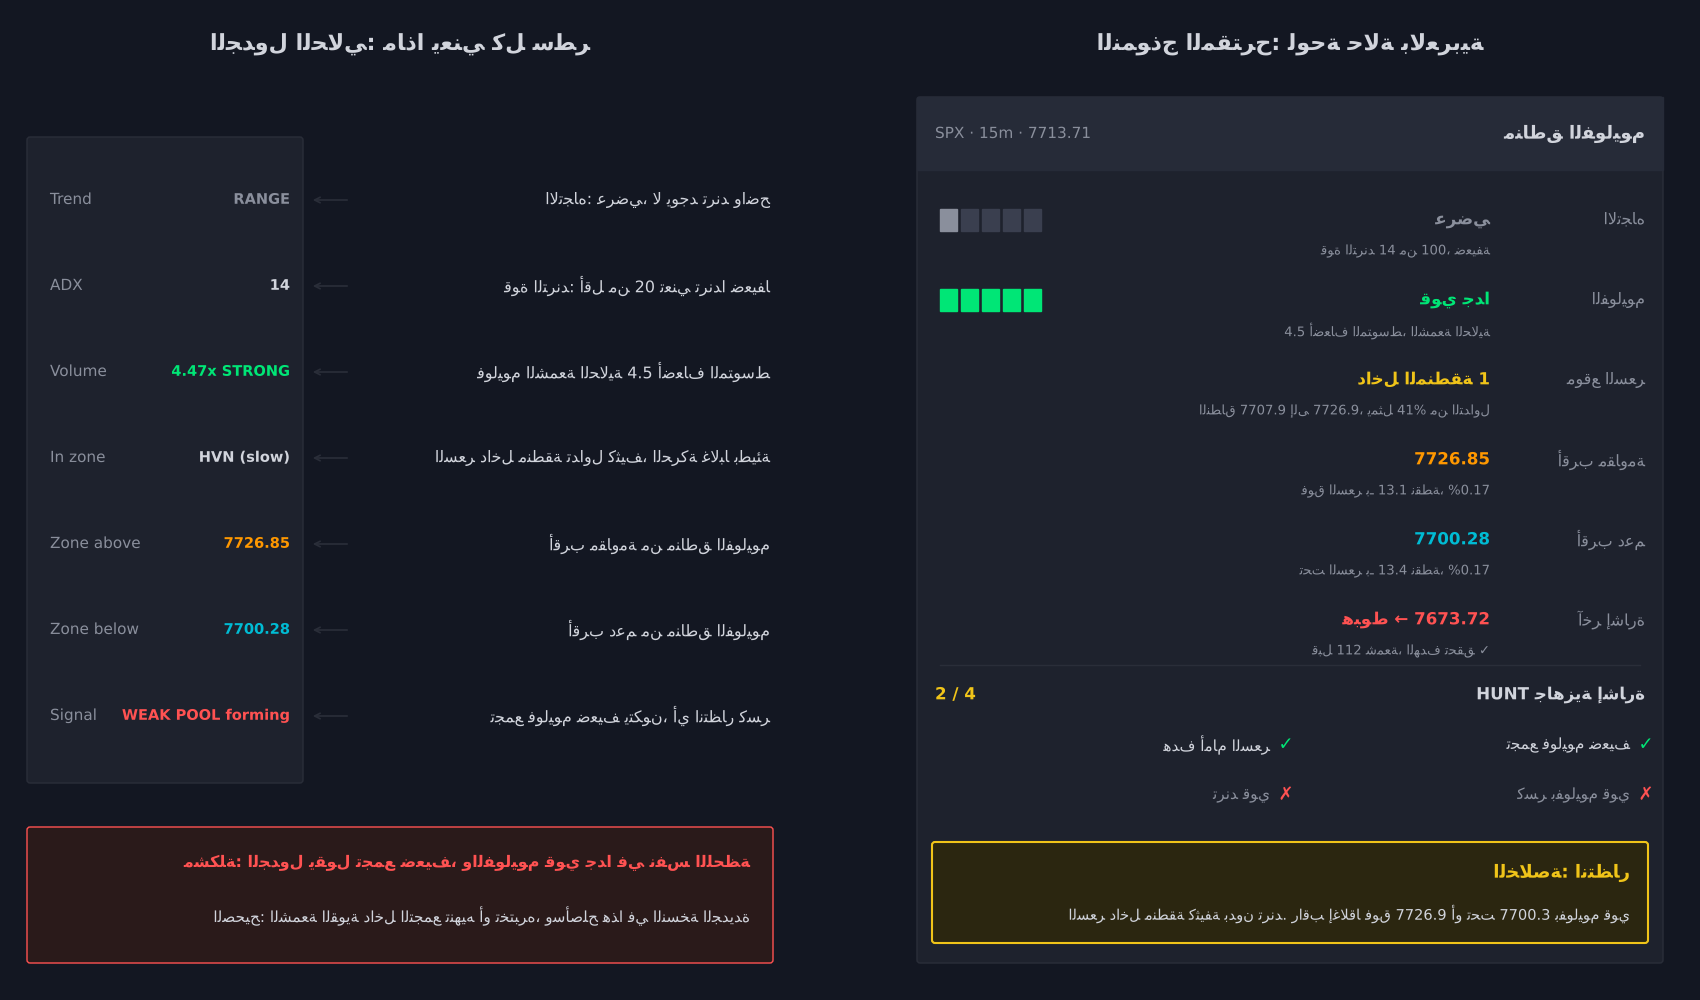
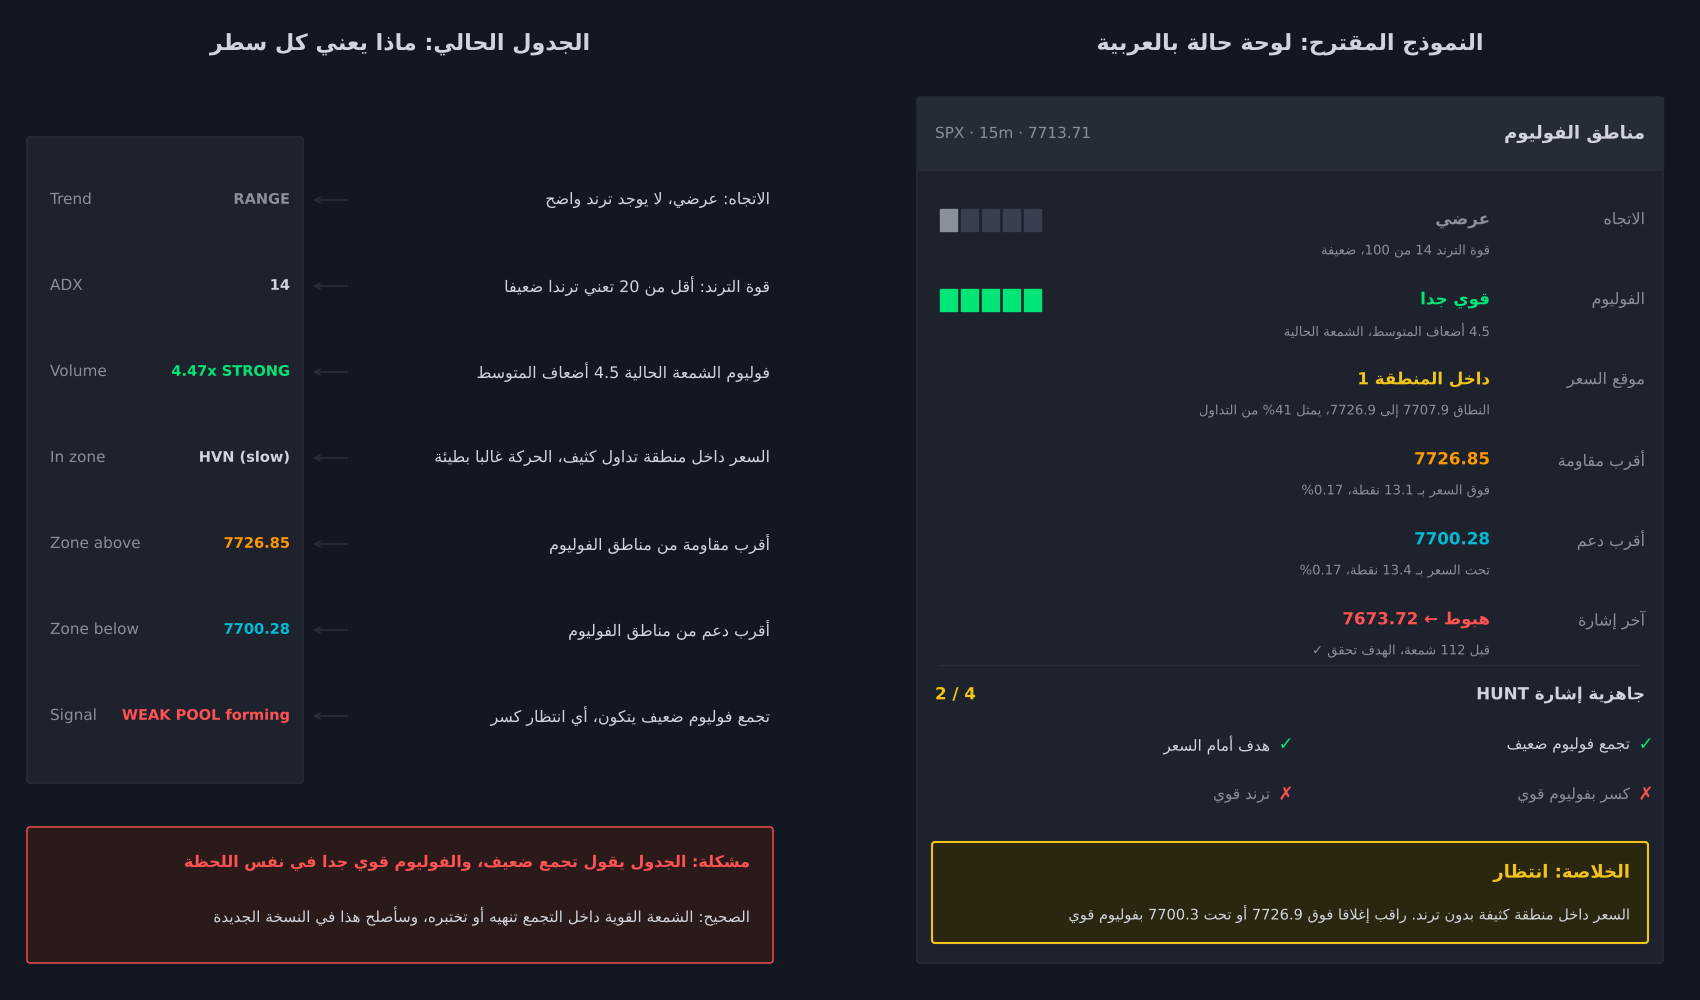
Fix reversed Arabic text in status-panel mockup
Claude-Session: https://claude.ai/code/session_01LqVdPjKMY9JTEX1zUaxwh2

diff --git a/reports/make_table_mockup.py b/reports/make_table_mockup.py
@@ -2,10 +2,8 @@
 import matplotlib; matplotlib.use("Agg")
 import matplotlib.pyplot as plt
 from matplotlib.patches import FancyBboxPatch, Rectangle
-import arabic_reshaper
-from bidi.algorithm import get_display
 
-def ar(t): return get_display(arabic_reshaper.reshape(t))
+def ar(t): return t  # matplotlib >= 3.10 shapes Arabic and applies bidi itself
 BG, PANEL, GR, TX, MUT = "#131722", "#1e222d", "#2a2e39", "#d1d4dc", "#8a8f9c"
 G, R, Y, O, C, P = "#00e676", "#ff5252", "#f0c419", "#ff9800", "#00bcd4", "#b388ff"
 plt.rcParams["font.family"] = "DejaVu Sans"
